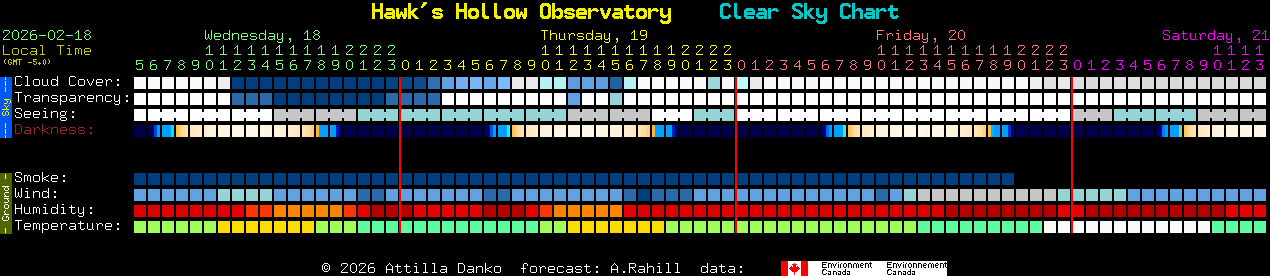
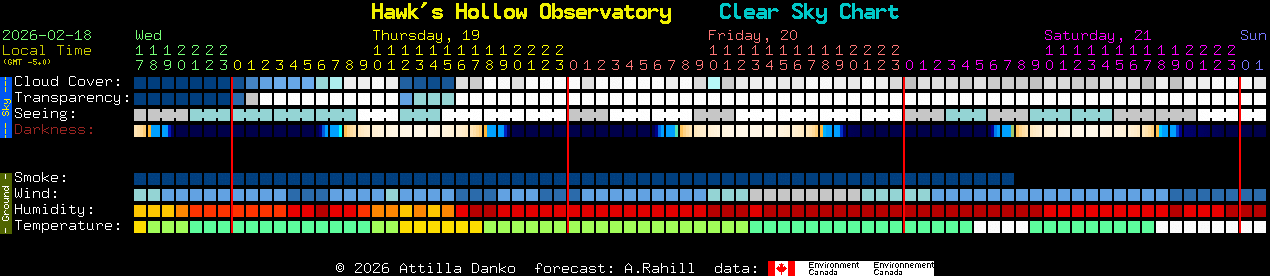
Full system update

diff --git a/hud.py b/hud.py
@@ -26,9 +26,9 @@ class SumnerHUD:
         self.path_sensors = "/home/pi/allsky_guard/sensors.txt"
         self.path_hours = "/home/pi/allsky_guard/hours.txt"
         self.path_notes = "/home/pi/allsky_guard/dossier.txt"
-        self.path_mirror_cfg = "/home/pi/allsky_guard/mirror_config.txt"
         self.path_thresh = "/home/pi/allsky_guard/cloud_threshold.txt"
         self.path_seestar_ip = "/home/pi/allsky_guard/seestar_ip.txt"
+        self.path_fingerbot_mac = "/home/pi/allsky_guard/fingerbot_mac.txt"
         
         # ID Paths
         self.path_radar_id = "/home/pi/allsky_guard/radar_coords.txt"
@@ -61,6 +61,33 @@ class SumnerHUD:
         self.check_cleaning_reminder()
         self.update_loop()
 
+    def trigger_fingerbot(self):
+        """Bluetooth trigger for Seestar Power Button"""
+        if not os.path.exists(self.path_fingerbot_mac):
+            messagebox.showerror("ERROR", "Set Fingerbot MAC in Dossier.")
+            return
+        with open(self.path_fingerbot_mac, "r") as f:
+            mac = f.read().strip()
+        
+        # Command to trigger Fingerbot 'Push'
+        cmd = f"gatttool -b {mac} --char-write-req -a 0x0016 -n 01"
+        try:
+            subprocess.Popen(cmd.split())
+            self.power_btn.config(bg="red", text="⚡ SENDING...")
+            self.root.after(2000, lambda: self.power_btn.config(bg="#900", text="⚡ SEESTAR"))
+        except:
+            messagebox.showerror("BT ERROR", "Check Bluetooth service on Pi.")
+
+    def get_connection_type(self):
+        try:
+            ips = subprocess.check_output("hostname -I", shell=True).decode().split()
+            for ip in ips:
+                if ip.startswith("100."):
+                    return "REMOTE (VPN)", "orange"
+            return "LOCAL (WiFi)", "lightgreen"
+        except:
+            return "UNKNOWN", "gray"
+
     def update_threshold(self, val):
         self.cloud_threshold = float(val)
         try:
@@ -70,18 +97,6 @@ class SumnerHUD:
 
     def toggle_roof(self):
         messagebox.showinfo("ROOF CONTROL", "Roof Command Sent")
-
-    def launch_seestar(self):
-        w, h, x, y = "450", "900", "100", "100"
-        if os.path.exists(self.path_mirror_cfg):
-            try:
-                with open(self.path_mirror_cfg, "r") as f:
-                    coords = f.read().strip().split(',')
-                    if len(coords) == 4: w, h, x, y = coords
-            except: pass
-        subprocess.Popen(["/snap/bin/scrcpy", "--always-on-top", "--window-title", "Seestar Live",
-               "--max-size", "1920", "--video-bit-rate", "4M", "--max-fps", "30",
-               "--window-x", x, "--window-y", y, "--window-width", w, "--window-height", h])
 
     def create_placeholder(self, text, w, h):
         img = Image.new('RGB', (w, h), color=(15, 15, 15))
@@ -102,13 +117,22 @@ class SumnerHUD:
             return self.create_placeholder(f"ERROR LOADING\n{label}", w, h)
 
     def create_ui_elements(self):
+        # Header Area
         self.canvas.create_text(self.sw//2, 25, text="--- OBSERVATORY CONTROLS ---", fill="#FFCC00", font=("Arial", 12, "bold"))
         
-        # Center the Seestar button
-        tk.Button(self.root, text="📱 SEESTAR (V40)", bg="#4B0082", fg="white", font=("Arial", 9, "bold"), command=self.launch_seestar).place(x=self.sw//2 - 60, y=45)
-        
+        # Relocated Roof Control
+        self.roof_btn = tk.Button(self.root, text="OPEN / CLOSE ROOF", bg="#500", fg="white", activebackground="red", font=("Arial", 9, "bold"), command=self.toggle_roof)
+        self.roof_btn.place(x=self.sw//2 - 75, y=50, width=150)
+
+        # Network Status Display
+        self.net_status_text = self.canvas.create_text(self.sw - 20, 20, text="NET: CHECKING...", font=("Arial", 10, "bold"), fill="cyan", anchor="ne")
+
+        # Top Action Buttons
         tk.Button(self.root, text="MAINT / DOSSIER", command=self.open_dossier, bg="#222", fg="white", font=("Arial", 9, "bold")).place(x=20, y=20)
         tk.Button(self.root, text="EXIT HUD", command=self.root.destroy, bg="#500", fg="white", font=("Arial", 9, "bold")).place(x=150, y=20)
+        
+        self.power_btn = tk.Button(self.root, text="⚡ SEESTAR", command=self.trigger_fingerbot, bg="#900", fg="white", font=("Arial", 9, "bold"))
+        self.power_btn.place(x=250, y=20)
 
         box_w, box_h = int(self.sw * 0.25), int(self.sh * 0.85)
         rx, ry = self.sw - box_w - 20, 40
@@ -132,10 +156,7 @@ class SumnerHUD:
         self.val_rain  = self.add_sensor_line("☔", "RAIN DET:", rx + 15, y_mid + spacing*5, "#AF7AC5", box_w)
         self.val_dome  = self.add_sensor_line("🏠", "ROOF STAT:", rx + 15, y_mid + spacing*6, "#EB984E", box_w)
         
-        self.roof_btn = tk.Button(self.root, text="OPEN / CLOSE ROOF", bg="#500", fg="white", activebackground="red", font=("Arial", 8, "bold"), command=self.toggle_roof)
-        self.roof_btn.place(x=rx + 55, y=y_mid + spacing*6 + 22, width=box_w - 80)
-
-        # Added Alpaca Link indicator
+        # Alpaca and Timer
         y_bot = y_mid + spacing*8
         self.val_alpaca = self.add_sensor_line("🔭", "ALPACA LINK:", rx + 15, y_bot - spacing, "#00FF00", box_w)
         self.val_hrs   = self.add_sensor_line("⌛", "OP HOURS:", rx + 15, y_bot, "#FFCC00", box_w)
@@ -188,10 +209,10 @@ class SumnerHUD:
                 with open(path, "r") as file: e.insert(0, file.read().strip())
             return e
 
-        cfg_entry = create_entry("Mirror Config:", self.path_mirror_cfg)
         rad_entry = create_entry("Radar Station:", self.path_radar_id, "orange")
         csk_entry = create_entry("ClearSky ID:", self.path_csk_id, "#00FFCC")
         ip_entry  = create_entry("Seestar IP:", self.path_seestar_ip, "#FF33FF")
+        bt_entry  = create_entry("Fingerbot MAC:", self.path_fingerbot_mac, "#FFCC00")
 
         txt = scrolledtext.ScrolledText(d_win, bg="black", fg="#00FFCC", font=("Courier", 14), insertbackground="white")
         txt.pack(padx=20, pady=5, expand=True, fill='both')
@@ -199,10 +220,10 @@ class SumnerHUD:
             with open(self.path_notes, "r") as f: txt.insert('1.0', f.read())
         
         def save_all():
-            with open(self.path_mirror_cfg, "w") as f: f.write(cfg_entry.get())
             with open(self.path_radar_id, "w") as f: f.write(rad_entry.get().upper().strip())
             with open(self.path_csk_id, "w") as f: f.write(csk_entry.get().strip())
             with open(self.path_seestar_ip, "w") as f: f.write(ip_entry.get().strip())
+            with open(self.path_fingerbot_mac, "w") as f: f.write(bt_entry.get().strip())
             with open(self.path_notes, 'w') as f: f.write(txt.get('1.0', 'end'))
             self.seestar_ip = ip_entry.get().strip()
             d_win.destroy()
@@ -233,13 +254,11 @@ class SumnerHUD:
             self.canvas.create_oval(x, y, x+1, y+1, fill='white', outline='white')
 
     def check_alpaca_status(self):
-        if not self.seestar_ip or self.seestar_ip == "0.0.0.0":
-            return False
+        if not self.seestar_ip or self.seestar_ip == "0.0.0.0": return False
         try:
             with socket.create_connection((self.seestar_ip, 32323), timeout=0.5):
                 return True
-        except:
-            return False
+        except: return False
 
     def update_loop(self):
         img_w, img_h = int(self.sw * 0.28), int(self.sh * 0.45)
@@ -247,14 +266,14 @@ class SumnerHUD:
 
         self.img_all = self.load_scale(self.path_allsky, img_w, img_h, "AllSky")
         self.canvas.itemconfig(self.all_img_id, image=self.img_all)
-        
         self.img_rad = self.load_scale(self.path_radar, img_w, img_h, "Radar")
         self.canvas.itemconfig(self.rad_img_id, image=self.img_rad)
-        
         self.img_clk = self.load_scale(self.path_clock, clk_w, clk_h, "ClearSky")
         self.canvas.itemconfig(self.clk_img_id, image=self.img_clk)
 
-        # Update Alpaca Status
+        net_stat, net_col = self.get_connection_type()
+        self.canvas.itemconfig(self.net_status_text, text=f"NET: {net_stat}", fill=net_col)
+        
         alpaca_on = self.check_alpaca_status()
         self.canvas.itemconfig(self.val_alpaca, text="ONLINE" if alpaca_on else "OFFLINE", fill="#00FF00" if alpaca_on else "#FF3333")
 
@@ -293,8 +312,8 @@ class SumnerHUD:
                                 inches_p = raw_p * 0.02953
                                 self.canvas.itemconfig(self.val_pres, text=f"{inches_p:.2f} in")
                             except: self.canvas.itemconfig(self.val_pres, text=val)
-                        elif "WIND SPD" in u_line: self.canvas.itemconfig(self.val_wind, text=val)
-                        elif "PRECIP" in u_line or "RAIN" in u_line: 
+                        elif "WIND" in u_line: self.canvas.itemconfig(self.val_wind, text=val)
+                        elif "RAIN" in u_line or "PRECIP" in u_line: 
                             self.canvas.itemconfig(self.val_rain, text=val, fill="red" if "WET" in val.upper() else "cyan")
                         elif "DOME" in u_line or "ROOF" in u_line: 
                             self.canvas.itemconfig(self.val_dome, text=val)
